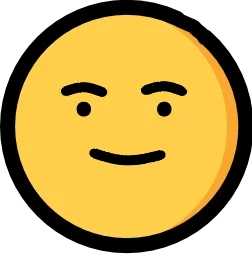
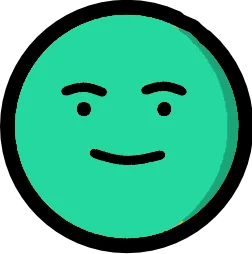
deleted:    client/src/assets/images/smile/smile1.png modified:   client/src/assets/images/smile/smile1.webp deleted:    client/src/assets/images/smile/smile2.png modified:   client/src/assets/images/smile/smile2.webp deleted:    client/src/assets/images/smile/smile3.png modified:   client/src/asset

diff --git a/client/src/assets/layouts/TopNav.jsx b/client/src/assets/layouts/TopNav.jsx
@@ -5,6 +5,8 @@ import {useNavigate, useLocation} from "../../import/ImportReacts.jsx";
 import {moment} from "../../import/ImportLibs.jsx";
 import {useTranslate} from "../../import/ImportHooks.jsx";
 import {Tabs, Tab, tabsClasses, Paper, Card} from "../../import/ImportMuis.jsx";
+import {PopUp, Div, Img, Br10, Br20} from "../../import/ImportComponents.jsx";
+import {smile1, smile2, smile3, smile4, smile5} from "../../import/ImportImages.jsx";
 
 // ------------------------------------------------------------------------------------------------>
 export const TopNav = () => {
@@ -13,10 +15,14 @@ export const TopNav = () => {
   const navigate = useNavigate();
   const location = useLocation();
   const {translate} = useTranslate();
+  const percent = JSON.parse(sessionStorage.getItem("percent") || "{}");
   const PATH = location?.pathname;
   const firstStr = PATH?.split("/")[1] || "";
   const secondStr = PATH?.split("/")[2] || "";
   const thirdStr = PATH?.split("/")[3] || "";
+  const part = firstStr.charAt(0).toUpperCase() + firstStr.slice(1);
+  const type = secondStr.charAt(0).toUpperCase() + secondStr.slice(1);
+  const plan = thirdStr.charAt(0).toUpperCase() + thirdStr.slice(1);
 
   // 2-2. useState -------------------------------------------------------------------------------->
   const [value, setValue] = useState("diff/list");
@@ -30,6 +36,142 @@ export const TopNav = () => {
       setValue(secondStr);
     }
   }, [secondStr, thirdStr]);
+
+  // 3. logic ------------------------------------------------------------------------------------->
+  const makeIcon = (part, className, text) => {
+
+    const classType = text === "N" ? "d-none" : "fs-0-7rem ms-5";
+
+    if (
+      parseFloat(percent?.[`${part}`]?.average?.score) > 0 &&
+      parseFloat(percent?.[`${part}`]?.average?.score) <= 1
+    ) {
+      return (
+        <Div className={"d-center"}>
+          <Img src={smile1} className={className} />
+          <Div className={classType}>
+            {percent?.[`${part}`]?.average?.score}
+          </Div>
+        </Div>
+      );
+    }
+    else if (
+      parseFloat(percent?.[`${part}`]?.average?.score) > 1 &&
+      parseFloat(percent?.[`${part}`]?.average?.score) <= 2
+    ) {
+      return (
+        <Div className={"d-center"}>
+          <Img src={smile2} className={className} />
+          <Div className={classType}>
+          {percent?.[`${part}`]?.average?.score}</Div>
+        </Div>
+      );
+    }
+    else if (
+      parseFloat(percent?.[`${part}`]?.average?.score) > 2 &&
+      parseFloat(percent?.[`${part}`]?.average?.score) <= 3
+    ) {
+      return (
+        <Div className={"d-center"}>
+          <Img src={smile3} className={className} />
+          <Div className={classType}>
+          {percent?.[`${part}`]?.average?.score}</Div>
+        </Div>
+      );
+    }
+    else if (
+      parseFloat(percent?.[`${part}`]?.average?.score) > 3 &&
+      parseFloat(percent?.[`${part}`]?.average?.score) <= 4
+    ) {
+      return (
+        <Div className={"d-center"}>
+          <Img src={smile4} className={className} />
+          <Div className={classType}>
+          {percent?.[`${part}`]?.average?.score}</Div>
+        </Div>
+      );
+    }
+    else if (
+      parseFloat(percent?.[`${part}`]?.average?.score) > 4 &&
+      parseFloat(percent?.[`${part}`]?.average?.score) <= 5
+    ) {
+      return (
+        <Div className={"d-center"}>
+          <Img src={smile5} className={className} />
+          <Div className={classType}>
+          {percent?.[`${part}`]?.average?.score}</Div>
+        </Div>
+      );
+    }
+  };
+
+  // 5. scoreNode --------------------------------------------------------------------------------->
+  const scoreNode = () => (
+    <PopUp
+      type={"dropdown"}
+      position={"bottom"}
+      direction={"center"}
+      contents={({closePopup}) => (
+        <Div className={"d-column p-10"}>
+          <Div className={"d-center"}>
+            <Div className={"fs-0-8rem"}>{moment().format("YYYY-MM-DD (ddd)")}</Div>
+          </Div>
+          <Br20 />
+          <Div className={"d-center"}>
+            <Div className={"fs-0-8rem me-5"}>
+              {translate("navBar-total")}
+            </Div>
+            {makeIcon("total", "w-max5vw h-max5vh")}
+          </Div>
+          <Br10 />
+          <Div className={"d-center"}>
+            <Div className={"fs-0-8rem me-5"}>
+              {translate("navBar-exercise")}
+            </Div>
+            {makeIcon("exercise", "w-max5vw h-max5vh")}
+          </Div>
+          <Br10 />
+          <Div className={"d-center"}>
+            <Div className={"fs-0-8rem me-5"}>
+              {translate("navBar-food")}
+            </Div>
+            {makeIcon("food", "w-max5vw h-max5vh")}
+          </Div>
+          <Br10 />
+          <Div className={"d-center"}>
+            <Div className={"fs-0-8rem me-5"}>
+              {translate("navBar-money")}
+            </Div>
+            {makeIcon("money", "w-max5vw h-max5vh")}
+          </Div>
+          <Br10 />
+          <Div className={"d-center"}>
+            <Div className={"fs-0-8rem me-5"}>
+              {translate("navBar-sleep")}
+            </Div>
+            {makeIcon("sleep", "w-max5vw h-max5vh")}
+          </Div>
+          <Br20 />
+          <Div className={"d-center"}>
+            <Div className={"fs-0-6rem fw-normal"}>
+              {translate("navBar-score")}
+            </Div>
+          </Div>
+        </Div>
+      )}>
+      {(popTrigger={}) => (
+        <Div className={"d-center pointer"} onClick={(e) => {
+          popTrigger.openPopup(e.currentTarget)
+        }}>
+          {firstStr === "" || firstStr === "calendar" || firstStr === "user" ? (
+            makeIcon("total", "w-max30 h-max30", "N")
+          ) : (
+            makeIcon(part.toLowerCase(), "w-max30 h-max30", "N")
+          )}
+        </Div>
+      )}
+    </PopUp>
+  );
 
   // 6. default ----------------------------------------------------------------------------------->
   const defaultNode = () => (
@@ -215,15 +357,20 @@ export const TopNav = () => {
   const topNavNode = () => (
     <Paper className={"flex-wrapper p-sticky top-7vh border radius"}>
       <Card className={"block-wrapper d-row h-7vh"}>
-        {firstStr === "exercise" || firstStr === "money" || firstStr === "sleep" ? (
-          defaultNode()
-        ) : firstStr === "calendar" ? (
-          calendarNode()
-        ) : firstStr === "food" ? (
-          foodNode()
-        ) : (
-          null
-        )}
+        <Div className={"ms-0"}>
+          {scoreNode()}
+        </Div>
+        <Div className={"m-auto"}>
+          {firstStr === "exercise" || firstStr === "money" || firstStr === "sleep" ? (
+            defaultNode()
+          ) : firstStr === "calendar" ? (
+            calendarNode()
+          ) : firstStr === "food" ? (
+            foodNode()
+          ) : (
+            null
+          )}
+        </Div>
       </Card>
     </Paper>
   );

diff --git a/src/middleware/user/userPercentMiddleware.js b/src/middleware/user/userPercentMiddleware.js
@@ -60,10 +60,10 @@ export const percent = async (object) => {
       }
     }
     else if (extra === "cardio") {
-      const hoursPlan = parseInt(plan.split(":")[0], 10);
-      const minutesPlan = parseInt(plan.split(":")[1], 10);
-      const hoursReal = parseInt(real.split(":")[0], 10);
-      const minutesReal = parseInt(real.split(":")[1], 10);
+      const hoursPlan = parseInt(plan?.split(":")[0], 10);
+      const minutesPlan = parseInt(plan?.split(":")[1], 10);
+      const hoursReal = parseInt(real?.split(":")[0], 10);
+      const minutesReal = parseInt(real?.split(":")[1], 10);
       const hours = Math.abs(hoursPlan - hoursReal);
       const minutes = Math.abs(minutesPlan - minutesReal);
       const diffVal = (hours * 60) + minutes;
@@ -276,10 +276,10 @@ export const percent = async (object) => {
       }
     }
     else if (extra === "time") {
-      const hoursPlan = parseInt(plan.split(":")[0], 10);
-      const minutesPlan = parseInt(plan.split(":")[1], 10);
-      const hoursReal = parseInt(real.split(":")[0], 10);
-      const minutesReal = parseInt(real.split(":")[1], 10);
+      const hoursPlan = parseInt(plan?.split(":")[0], 10);
+      const minutesPlan = parseInt(plan?.split(":")[1], 10);
+      const hoursReal = parseInt(real?.split(":")[0], 10);
+      const minutesReal = parseInt(real?.split(":")[1], 10);
       const hours = Math.abs(hoursPlan - hoursReal);
       const minutes = Math.abs(minutesPlan - minutesReal);
 

diff --git a/src/middleware/sleep/sleepDiffMiddleware.js b/src/middleware/sleep/sleepDiffMiddleware.js
@@ -31,11 +31,11 @@ export const list = async (object) => {
       return diffTime;
     }
     else if (extra === "time") {
-      const hoursPlan = parseInt(plan.split(":")[0], 10);
-      const minutesPlan = parseInt(plan.split(":")[1], 10);
+      const hoursPlan = parseInt(plan?.split(":")[0], 10);
+      const minutesPlan = parseInt(plan?.split(":")[1], 10);
 
-      const hoursReal = parseInt(real.split(":")[0], 10);
-      const minutesReal = parseInt(real.split(":")[1], 10);
+      const hoursReal = parseInt(real?.split(":")[0], 10);
+      const minutesReal = parseInt(real?.split(":")[1], 10);
 
       const hours = Math.abs(hoursPlan - hoursReal);
       const minutes = Math.abs(minutesPlan - minutesReal);
@@ -78,11 +78,11 @@ export const list = async (object) => {
       }
     }
     else if (extra === "time") {
-      const hoursPlan = parseInt(plan.split(":")[0], 10);
-      const minutesPlan = parseInt(plan.split(":")[1], 10);
+      const hoursPlan = parseInt(plan?.split(":")[0], 10);
+      const minutesPlan = parseInt(plan?.split(":")[1], 10);
 
-      const hoursReal = parseInt(real.split(":")[0], 10);
-      const minutesReal = parseInt(real.split(":")[1], 10);
+      const hoursReal = parseInt(real?.split(":")[0], 10);
+      const minutesReal = parseInt(real?.split(":")[1], 10);
 
       const hours = Math.abs(hoursPlan - hoursReal);
       const minutes = Math.abs(minutesPlan - minutesReal);

diff --git a/src/middleware/exercise/exerciseDiffMiddleware.js b/src/middleware/exercise/exerciseDiffMiddleware.js
@@ -13,11 +13,11 @@ export const list = async (object) => {
   };
 
   const compareTime = (plan, real) => {
-    const hoursPlan = parseInt(plan.split(":")[0], 10);
-    const minutesPlan = parseInt(plan.split(":")[1], 10);
+    const hoursPlan = parseInt(plan?.split(":")[0], 10);
+    const minutesPlan = parseInt(plan?.split(":")[1], 10);
 
-    const hoursReal = parseInt(real.split(":")[0], 10);
-    const minutesReal = parseInt(real.split(":")[1], 10);
+    const hoursReal = parseInt(real?.split(":")[0], 10);
+    const minutesReal = parseInt(real?.split(":")[1], 10);
 
     const hours = Math.abs(hoursPlan - hoursReal);
     const minutes = Math.abs(minutesPlan - minutesReal);
@@ -74,11 +74,11 @@ export const list = async (object) => {
       }
     }
     else if (extra === "cardio") {
-      const hoursPlan = parseInt(plan.split(":")[0], 10);
-      const minutesPlan = parseInt(plan.split(":")[1], 10);
+      const hoursPlan = parseInt(plan?.split(":")[0], 10);
+      const minutesPlan = parseInt(plan?.split(":")[1], 10);
 
-      const hoursReal = parseInt(real.split(":")[0], 10);
-      const minutesReal = parseInt(real.split(":")[1], 10);
+      const hoursReal = parseInt(real?.split(":")[0], 10);
+      const minutesReal = parseInt(real?.split(":")[1], 10);
 
       const hours = Math.abs(hoursPlan - hoursReal);
       const minutes = Math.abs(minutesPlan - minutesReal);

diff --git a/client/src/assets/layouts/footer/Btn.jsx b/client/src/assets/layouts/footer/Btn.jsx
@@ -269,11 +269,6 @@ export const Btn = ({
       {translate("btn-flowDefault")}
     </Button>
   );
-  const btnFlowReset = () => (
-    <Button variant={"contained"} color={"error"} size={"small"} className={"m-20"} onClick={() => (sessionStorage.clear())}>
-      Clear
-    </Button>
-  );
   const btnFlowDemo = () => (
     <Div className={"d-center"}>
       <TextField
@@ -349,7 +344,6 @@ export const Btn = ({
           <Card className={"block-wrapper border-none d-row h-7vh"}>
             {btnGoToSave()}
             {btnGetProperty()}
-            {btnFlowReset()}
           </Card>
         );
       }

diff --git a/index.js b/index.js
@@ -64,7 +64,7 @@ const customLogger = (collectionName, method, query, doc) => {
 // ------------------------------------------------------------------------------------------------>
 // mongodb://eric4757:M7m7m7m7m7!@34.23.233.23:27017/LIFECHANGE
 mongoose.connect(`mongodb://${id}:${pw}@${host}:${port}/${db}`);
-mongoose.set("debug", customLogger);
+// mongoose.set("debug", customLogger);
 
 // ------------------------------------------------------------------------------------------------>
 const appPort = Number(process.env.PORT);

diff --git a/src/service/exercise/exerciseDiffService.js b/src/service/exercise/exerciseDiffService.js
@@ -26,8 +26,8 @@ export const list = async (
   );
 
   const finalResult = await Promise.all(listPlan.map(async (plan) => {
-    const dateStart = plan.exercise_plan_dateStart;
-    const dateEnd = plan.exercise_plan_dateEnd;
+    const dateStart = plan?.exercise_plan_dateStart;
+    const dateEnd = plan?.exercise_plan_dateEnd;
 
     const listReal = await repository.list.list (
       user_id_param, dateType, dateStart, dateEnd

diff --git a/src/service/money/moneyDiffService.js b/src/service/money/moneyDiffService.js
@@ -25,8 +25,8 @@ export const list = async (
   );
 
   const finalResult = await Promise.all(listPlan.map(async (plan) => {
-    const dateStart = plan.money_plan_dateStart;
-    const dateEnd = plan.money_plan_dateEnd;
+    const dateStart = plan?.money_plan_dateStart;
+    const dateEnd = plan?.money_plan_dateEnd;
 
     const listReal = await repository.list.list (
       user_id_param, dateType, dateStart, dateEnd

diff --git a/src/service/sleep/sleepDiffService.js b/src/service/sleep/sleepDiffService.js
@@ -26,8 +26,8 @@ export const list = async (
   );
 
   const finalResult = await Promise.all(listPlan.map(async (plan) => {
-    const dateStart = plan.sleep_plan_dateStart;
-    const dateEnd = plan.sleep_plan_dateEnd;
+    const dateStart = plan?.sleep_plan_dateStart;
+    const dateEnd = plan?.sleep_plan_dateEnd;
 
     const listReal = await repository.list.list (
       user_id_param, dateType, dateStart, dateEnd

diff --git a/src/service/food/foodDiffService.js b/src/service/food/foodDiffService.js
@@ -25,8 +25,8 @@ export const list = async (
   );
 
   const finalResult = await Promise.all(listPlan.map(async (plan) => {
-    const dateStart = plan.food_plan_dateStart;
-    const dateEnd = plan.food_plan_dateEnd;
+    const dateStart = plan?.food_plan_dateStart;
+    const dateEnd = plan?.food_plan_dateEnd;
 
     const listReal = await repository.list.list (
       user_id_param, dateType, dateStart, dateEnd
